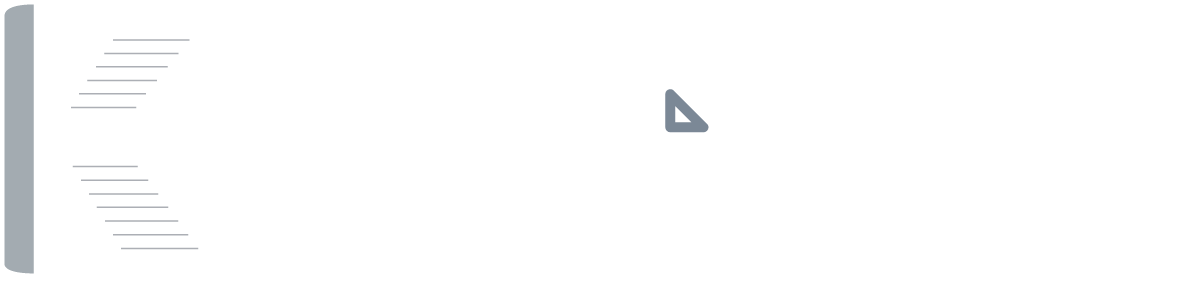
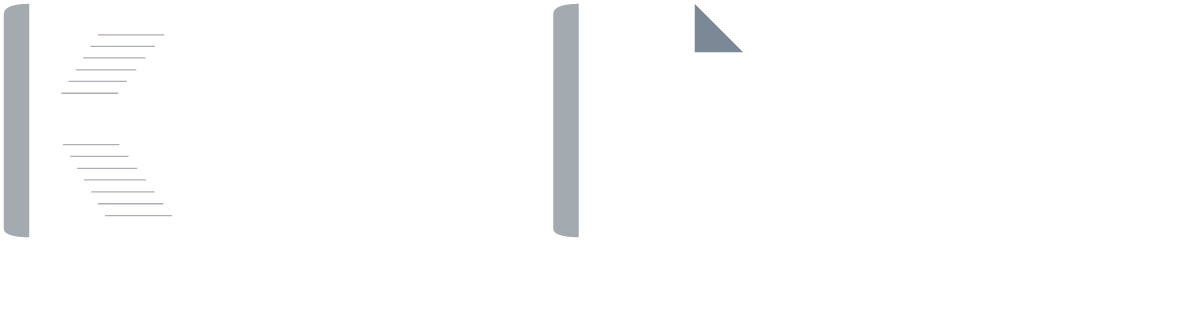
Brand: new KernPage wordmark with a capital P built from the K; add docs/BRAND-USAGE.md

diff --git a/brand/make_brand.py b/brand/make_brand.py
@@ -24,7 +24,7 @@ TEAL = {
     "dark": "#046064",         # icon tile
     "light": "#7FC9C4",        # stem strip
     "ink": "#0B5A73",          # wordmark letters and K body on light backgrounds
-    "accent": "#1696A0",       # the p's fold on light backgrounds
+    "accent": "#1696A0",       # the P's fold on light backgrounds
     "line": "#6FB6C6",         # text lines on the arms, light backgrounds
     "accent_on_dark": "#36C4CF",
     "line_on_dark": "#8FB9C6",
@@ -85,13 +85,39 @@ def v(name, fallback):
     return "var(--kp-%s, %s)" % (name, fallback)
 
 
+# ---- the approved wordmark artwork (KernPage, capital P built from the K) -------------------------------
+WORDMARK_VIEWBOX = "103 211 1249.19 329.50"
+WORDMARK_BODY = r'''<g transform="translate(107,215) scale(0.26586) translate(-341,-245)">
+<path fill="var(--kp-light, #7FC9C4)" d="M341,285C341,252 395,245 440.8,245V1159C395,1159 341,1152 341,1126Z"/>
+<path fill="var(--kp-ink, #0B5A73)" d="M449.8,245C495,245 524.5,250 524.5,278V502L449.8,687Z"/>
+<path fill="var(--kp-ink, #0B5A73)" d="M449.8,697L524.5,909V1126C524.5,1154 495,1159 449.8,1159Z"/>
+<path fill="var(--kp-ink, #0B5A73)" d="M704,266H1121L775,687H445.3Z"/>
+<path fill="var(--kp-ink, #0B5A73)" d="M445.3,697H775L1121,1135H704Z"/>
+<path fill="none" stroke="var(--kp-line, #6FB6C6)" stroke-width="5" d="M710.0,366.1H969.4M680.3,411.4H932.7M652.0,456.6H895.9M622.4,503.3H859.2M594.1,548.5H822.4M567.2,595.1H788.5M572.9,795.9H794.1M601.1,842.5H829.5M628.0,889.2H863.4M654.9,934.4H897.3M683.1,981.1H931.3M710.0,1027.7H965.2M736.9,1074.4H999.1"/>
+</g>
+<g transform="translate(54,40.00)"><path fill="var(--kp-ink, #0B5A73)" d="M396.36 362.86H301.32Q302.49 376.94 311.18 384.91Q319.86 392.89 332.53 392.89Q350.83 392.89 358.58 377.17H394.01Q388.38 395.94 372.42 408.03Q356.47 420.11 333.23 420.11Q314.46 420.11 299.56 411.78Q284.66 403.45 276.33 388.2Q268 372.95 268 353Q268 332.82 276.21 317.57Q284.43 302.31 299.21 294.1Q313.99 285.89 333.23 285.89Q351.77 285.89 366.44 293.87Q381.1 301.84 389.2 316.51Q397.3 331.18 397.3 350.18Q397.3 357.22 396.36 362.86ZM363.27 340.8Q363.04 328.13 354.12 320.5Q345.2 312.87 332.3 312.87Q320.09 312.87 311.76 320.27Q303.43 327.66 301.56 340.8Z"/>
+<path fill="var(--kp-ink, #0B5A73)" d="M477.04 286.12V320.62H468.36Q452.87 320.62 445.01 327.89Q437.15 335.17 437.15 353.23V418H404.3V288H437.15V308.18Q443.48 297.86 453.69 291.99Q463.9 286.12 477.04 286.12Z"/>
+<path fill="var(--kp-ink, #0B5A73)" d="M607.94 341.74V418H575.09V346.19Q575.09 330.71 567.34 322.38Q559.6 314.05 546.22 314.05Q532.61 314.05 524.75 322.38Q516.89 330.71 516.89 346.19V418H484.04V288H516.89V304.19Q523.46 295.74 533.67 290.93Q543.88 286.12 556.08 286.12Q579.31 286.12 593.62 300.79Q607.94 315.45 607.94 341.74Z"/>
+</g><g transform="translate(678.94,215) scale(0.26586) translate(-341,-245)"><path fill="var(--kp-light, #7FC9C4)" d="M341,285C341,252 395,245 440.8,245V1159C395,1159 341,1152 341,1126Z"/><path fill="var(--kp-ink, #0B5A73)" fill-rule="evenodd" d="M449.8,245H895L1085,435V560A230,230 0 0 1 855,790H524.5V1126C524.5,1154 495,1159 449.8,1159Z M524.5,410H826.7L920,503.3V560A65,65 0 0 1 855,625H524.5Z"/><path fill="var(--kp-accent, #1696A0)" d="M895,245V435H1085Z"/></g><g transform="translate(107.30,40.00)"><path fill="var(--kp-ink, #0B5A73)" d="M763.44 353Q763.44 333.05 772.24 317.8Q781.04 302.55 796.29 294.22Q811.54 285.89 830.32 285.89Q849.09 285.89 864.34 294.22Q879.59 302.55 888.39 317.8Q897.19 333.05 897.19 353Q897.19 372.95 888.16 388.2Q879.12 403.45 863.75 411.78Q848.38 420.11 829.38 420.11Q810.6 420.11 795.59 411.78Q780.57 403.45 772 388.2Q763.44 372.95 763.44 353ZM863.4 353Q863.4 334.46 853.66 324.49Q843.93 314.52 829.85 314.52Q815.77 314.52 806.26 324.49Q796.76 334.46 796.76 353Q796.76 371.54 806.03 381.51Q815.3 391.48 829.38 391.48Q838.29 391.48 846.16 387.14Q854.02 382.8 858.71 374.12Q863.4 365.44 863.4 353Z"/>
+<path fill="var(--kp-ink, #0B5A73)" d="M864.34,288H897.19V418H864.34Z"/>
+<path fill="var(--kp-ink, #0B5A73)" d="M1006.5 306.54V288H1039.59V418.94Q1039.59 437.01 1032.32 451.2Q1025.04 465.4 1010.49 473.73Q995.94 482.06 975.29 482.06Q947.6 482.06 929.89 469.16Q912.17 456.25 909.82 433.96H942.44Q945.02 442.87 953.59 448.15Q962.15 453.43 974.36 453.43Q988.67 453.43 997.59 444.87Q1006.5 436.3 1006.5 418.94V398.76Q1000.17 407.91 989.02 414.01Q977.88 420.11 963.56 420.11Q947.14 420.11 933.53 411.66Q919.92 403.22 912.05 387.85Q904.19 372.48 904.19 352.53Q904.19 332.82 912.05 317.57Q919.92 302.31 933.41 294.1Q946.9 285.89 963.56 285.89Q978.11 285.89 989.14 291.64Q1000.17 297.39 1006.5 306.54ZM972.01 314.75Q962.86 314.75 955.11 319.21Q947.37 323.67 942.56 332.23Q937.75 340.8 937.75 352.53Q937.75 364.26 942.56 373.06Q947.37 381.86 955.23 386.56Q963.09 391.25 972.01 391.25Q981.16 391.25 989.14 386.67Q997.12 382.1 1001.81 373.53Q1006.5 364.97 1006.5 353Q1006.5 341.03 1001.81 332.47Q997.12 323.9 989.14 319.33Q981.16 314.75 972.01 314.75Z"/>
+<path fill="var(--kp-ink, #0B5A73)" d="M1174.95 362.86H1079.91Q1081.08 376.94 1089.77 384.91Q1098.45 392.89 1111.12 392.89Q1129.42 392.89 1137.17 377.17H1172.6Q1166.97 395.94 1151.01 408.03Q1135.06 420.11 1111.82 420.11Q1093.05 420.11 1078.15 411.78Q1063.25 403.45 1054.92 388.2Q1046.59 372.95 1046.59 353Q1046.59 332.82 1054.8 317.57Q1063.02 302.31 1077.8 294.1Q1092.58 285.89 1111.82 285.89Q1130.36 285.89 1145.03 293.87Q1159.69 301.84 1167.79 316.51Q1175.89 331.18 1175.89 350.18Q1175.89 357.22 1174.95 362.86ZM1141.86 340.8Q1141.63 328.13 1132.71 320.5Q1123.79 312.87 1110.89 312.87Q1098.68 312.87 1090.35 320.27Q1082.02 327.66 1080.15 340.8Z"/>
+</g>'''
+
+
 # ---- recolourable masters ----------------------------------------------------------------------------
+SVG_TMPL = '<svg xmlns="http://www.w3.org/2000/svg" viewBox="%s">\n%s\n%s\n</svg>\n'
+
+
 def master_wordmark():
-    s = read("kernpage-wordmark.svg")
-    for old, var in (("#7FC9C4", "light"), ("#0B5A73", "ink"), ("#1696A0", "accent"), ("#6FB6C6", "line")):
-        s = s.replace('"%s"' % old, '"%s"' % v(var, old))
-    note = "<!-- KernPage wordmark, recolourable: set the CSS variables kp-ink, kp-light, kp-accent, kp-line (with a double-hyphen prefix) on the inlined svg or a parent. All glyphs are paths. Letters outlined from Poppins (OFL). -->"
-    return re.sub(r"<!--.*?-->", note, s, count=1)
+    note = "<!-- KernPage wordmark, recolourable: set the CSS variables kp-ink, kp-light, kp-accent, kp-line (with a double-hyphen prefix) on the inlined svg or a parent. All glyphs are paths. Letters outlined from Poppins (OFL); the capital P is built from the K's parts, its top-right corner a folded page corner. -->"
+    return SVG_TMPL % (WORDMARK_VIEWBOX, note, WORDMARK_BODY)
+
+
+def approved_wordmark(p, mode):
+    """The static wordmark kept in packaging/windows/icon/ (kernpage-wordmark.svg, kernpage-wordmark-white.svg)."""
+    note = "<!-- KernPage wordmark (for %s backgrounds). All glyphs are drawn paths (no font, no text elements). -->" % mode
+    return SVG_TMPL % (WORDMARK_VIEWBOX, note, fill(WORDMARK_BODY, values(p, mode)))
 
 
 def master_k():

diff --git a/crates/kernpage/src/backstage.rs b/crates/kernpage/src/backstage.rs
@@ -601,7 +601,7 @@ impl App {
     }
 
     fn home_page(&mut self, ui: &mut Ui) {
-        crate::logo::show(ui, crate::logo::Mark::Wordmark, 34.0);
+        crate::logo::show(ui, crate::logo::Mark::Wordmark, 40.0);
         ui.add_space(10.0);
         let mut picked = None;
         egui::ScrollArea::vertical().auto_shrink([false, false]).show(ui, |ui| {
@@ -1073,7 +1073,7 @@ fn about_page(ui: &mut Ui) {
     };
     page_title(ui, "About KernPage");
     egui::ScrollArea::vertical().auto_shrink([false, false]).show(ui, |ui| {
-        crate::logo::show(ui, crate::logo::Mark::Wordmark, 34.0);
+        crate::logo::show(ui, crate::logo::Mark::Wordmark, 40.0);
         ui.add_space(6.0);
         ui.label(RichText::new(format!("KernPage {}", crate::app_version())).size(18.0).color(crate::theme::text()));
         ui.add_space(4.0);

diff --git a/crates/kernpage/src/logo.rs b/crates/kernpage/src/logo.rs
@@ -9,7 +9,7 @@ use eframe::egui::{self, Color32, ColorImage, Pos2, Rect, TextureHandle, Texture
 pub enum Mark {
     /// The K alone.
     K,
-    /// The full "Kernpage" wordmark.
+    /// The full "KernPage" wordmark.
     Wordmark,
 }
 
@@ -55,7 +55,7 @@ fn current_accent() -> Accent {
 fn aspect(mark: Mark) -> f32 {
     match mark {
         Mark::K => 780.0 / 914.0,
-        Mark::Wordmark => 1083.886 / 274.0,
+        Mark::Wordmark => 1249.19 / 329.5,
     }
 }
 

diff --git a/docs/BRAND-USAGE.md b/docs/BRAND-USAGE.md
@@ -1,0 +1,50 @@
+# Brand usage checklist
+
+Every place the KernPage **wordmark** (the word "KernPage" with the capital P built from the K) and the **icon** (the K
+mark, the tiled app icon, the `.ico` files, installer art, favicon) is used. When the artwork changes, go down both
+tables and update each row. The artwork itself is described in [brand/README.md](../brand/README.md).
+
+How rows get their artwork:
+
+- **generated**: written by `brand/make_brand.py` (run `C:\Python312\python.exe -I brand/make_brand.py` from the repo root;
+  it needs cargo and the sibling `kernicons` repo for the PNGs).
+- **embedded**: compiled into a program with `include_str!` / `include_bytes!`, so rebuild after changing the file.
+- **by hand**: copied or set manually.
+
+## Wordmark
+
+| Where | Artwork / variant | How it gets there | How to update |
+| --- | --- | --- | --- |
+| `brand/kernpage-wordmark.svg` | Recolourable master (CSS variables) | generated; the geometry lives in `WORDMARK_BODY` in `brand/make_brand.py` | Edit `WORDMARK_BODY` / `WORDMARK_VIEWBOX` in the script, rebuild |
+| `brand/<accent>/kernpage-wordmark-light.svg` / `.png` and `-dark.svg` / `.png` (teal, blue, purple, graphite, orange) | Static files, 1200 px wide PNG | generated | Rebuild with `make_brand.py` |
+| `packaging/windows/icon/kernpage-wordmark.svg`, `kernpage-wordmark-white.svg` | Teal, light and dark approved copies | generated (`approved_wordmark`); the script's self-check compares them with the masters | Rebuild with `make_brand.py` |
+| `README.md` header (lines 3-4) | `brand/teal/kernpage-wordmark-dark.png` and `-light.png`, 420 px wide | by hand (path reference to generated files) | Nothing, unless the file names change; check the width still looks right |
+| `crates/kernpage/src/logo.rs` (`svg()` and `aspect()`) | `brand/<accent>/kernpage-wordmark-{light,dark}.svg`, drawn at the current accent and theme | embedded (`include_str!`) | Rebuild after `make_brand.py`; update the width / height constant in `aspect(Mark::Wordmark)` if the viewBox changes (now 1249.19 / 329.5) |
+| `crates/kernpage/src/backstage.rs`: File > Home page header (`home_page`) and File > About page (`about_page`) | Wordmark, 40 pt tall, current accent and light or dark theme | embedded via `logo::show` | Change the height in the two `logo::show` calls |
+| `crates/kernpage/src/ui_tests/logo.rs` | Tests for the wordmark colours, accent and theme | by hand | Update only if colours or roles change |
+| `brand/README.md`, `packaging/windows/icon/README.md` | Text that describes the wordmark | by hand | Edit the text |
+| Installer welcome art `packaging/windows/assets/dialog.bmp`, `banner.bmp` | The text "KernPage" drawn with a system font by `make_art.py`; not the wordmark artwork | generated by `packaging/windows/assets/make_art.py` | Decide whether to draw the new wordmark instead; if so, change `make_art.py` and rerun it |
+| Docs screenshots in `docs/images/` | App screenshots; the File > Home and About pages would show the wordmark | by hand (screenshots taken from the app, `--screenshot`) | Retake any that show the File > Home or About page |
+| 238apps website repo (238apps-site): KernPage page header / hero, home page app card, og image | Wordmark (light or dark PNG / SVG) | by hand, copied from `brand/<accent>/` | TODO: exact paths |
+| GitHub repository social preview | Wordmark on a card, 1280x640 | by hand: repository Settings > Social preview | Upload a new image |
+
+## Icon (K mark, tiled icon, .ico, installer art, favicon)
+
+| Where | Artwork / variant | How it gets there | How to update |
+| --- | --- | --- | --- |
+| `brand/kernpage-k.svg`, `brand/<accent>/kernpage-k-{light,dark}.svg` / `.png` | The K alone, 512 px PNG | generated | Rebuild with `make_brand.py` |
+| `brand/kernpage-icon.svg`, `brand/<accent>/kernpage-icon.svg` / `.png` | Tiled app icon, 512 px PNG | generated from `packaging/windows/icon/kernpage.svg` | Change the approved file, rebuild with `make_brand.py` |
+| `packaging/windows/icon/kernpage.svg`, `kernpage@16/20/24.svg` | Approved tiled icon and the pixel-hinted small sizes | by hand (the source artwork) | Edit the SVGs, then run `packaging/windows/icon/regenerate.ps1` |
+| `packaging/windows/icon/png/`, `png-hinted/`, `png-master/` | Rendered PNG sizes | generated by `regenerate.ps1` | Run `regenerate.ps1` |
+| `packaging/windows/assets/kernpage.ico` | App icon (16 to 256 px) | generated by `make_ico.py` via `regenerate.ps1` | Run `regenerate.ps1` |
+| `crates/kernpage/build.rs`, `crates/kernpage-launcher/build.rs` | `kernpage.ico` as the `.exe` icon resource (taskbar, Explorer) | embedded at build | Rebuild the exes |
+| `packaging/windows/icon/kernpage-doc*.svg`, `png-doc*/`, `assets/kernpage-doc.ico` | `.kern` file-type icon (white page with a teal K) | generated by `make_doc_svgs.py` and `make_doc_ico.py` (reads `brand/kernpage-k.svg`) via `regenerate.ps1` | Run `regenerate.ps1` |
+| `packaging/windows/kernpage.wxs` | `kernpage.ico` for Add/Remove Programs (`ARPPRODUCTICON`), Start menu and desktop shortcuts, and the installed `kernpage.ico`; `kernpage-doc.ico` as the `.kern` `DefaultIcon` | by hand (paths) / copied at packaging | Nothing, once the `.ico` files are regenerated; rebuild the installer |
+| `packaging/windows/kernpage-bundle.wxs`, `package.ps1` (lines about `logo.png`), `bundle-theme.xml` | Setup.exe window logo: `icon/png-master/64.png` copied to `logo.png`; the bundle `.exe` icon is `kernpage.ico` | copied by `package.ps1` | Rebuild the installer |
+| `packaging/windows/assets/banner.bmp`, `dialog.bmp` | MSI dialog art (493x58 banner, 493x312 dialog) | generated by `make_art.py` | Run `make_art.py`; check it still matches the icon |
+| `crates/kernpage-launcher/src/main.rs` (window and taskbar icon), `crates/kernpage-launcher/src/mark.rs` (mark in the Launcher window) | `icon/png-master/256.png`, `64.png`, `png/32.png` | embedded (`include_bytes!`) | Regenerate the PNGs, rebuild the launcher |
+| `crates/kernpage/src/logo.rs` `Mark::K` | `brand/<accent>/kernpage-k-{light,dark}.svg` | embedded | Rebuild after `make_brand.py` |
+| Start menu and desktop shortcuts | `kernpage.ico` through `KernPageIcon.ico` in `kernpage.wxs` | by the installer | Rebuild the installer |
+| Installer screenshots `docs/images/install/*.png`, used in `INSTALL.md` | Show the icon inside installer windows | by hand (screenshots) | Retake if the icon changes |
+| Favicon / avatar / og image on the 238apps website (238apps-site) | `brand/<accent>/kernpage-icon.png` or K | by hand | TODO: exact paths |
+| GitHub organisation / repository avatar | `brand/teal/kernpage-icon.png` | by hand | Upload in GitHub settings |

diff --git a/brand/README.md b/brand/README.md
@@ -1,7 +1,9 @@
 # KernPage brand kit
 
 The KernPage logo is a **K** whose stem is a rolled spine (a light strip beside a darker or white body) and whose two arms
-are pages with lines of text; the wordmark spells "Kernpage" with a page-shaped **p** that has a folded corner.
+are pages with lines of text; the wordmark spells "KernPage" with a capital **P** built like the K (a light strip beside a dark stem and bowl),
+whose top-right corner is a folded page corner. Every place the logo and icon are used is listed in
+[docs/BRAND-USAGE.md](../docs/BRAND-USAGE.md).
 The approved artwork lives in `packaging/windows/icon/` (the teal app icon, which is also what the Windows `.ico` is made from).
 This folder holds everything derived from it: transparent marks, every accent colour and recolourable masters.
 Do not redraw the shapes; change colours only.
@@ -41,8 +43,8 @@ because that shift gives a yellowish ink with too little contrast on white.
 | dark | icon tile | `#046064` | `#0352B8` | `#451FAF` | `#303A44` | `#B35A00` |
 | light | the stem's light strip | `#7FC9C4` | `#B8CFE3` | `#CFCBE3` | `#A3ABB1` | `#FFC285` |
 | ink | wordmark letters and K body on light backgrounds | `#0B5A73` | `#0E39C3` | `#6D2ABA` | `#3A4150` | `#A34700` |
-| accent | the p's fold, on light backgrounds | `#1696A0` | `#2372E6` | `#744DCF` | `#53606F` | `#FF8200` |
-| accent on dark | the p's fold, on dark backgrounds | `#36C4CF` | `#77A2E1` | `#A893D8` | `#7B8896` | `#FF9F3D` |
+| accent | the P's fold, on light backgrounds | `#1696A0` | `#2372E6` | `#744DCF` | `#53606F` | `#FF8200` |
+| accent on dark | the P's fold, on dark backgrounds | `#36C4CF` | `#77A2E1` | `#A893D8` | `#7B8896` | `#FF9F3D` |
 | line | text lines on the K's arms, light backgrounds | `#6FB6C6` | `#A9B9DF` | `#CBBDDE` | `#999EA8` | `#F0C08E` |
 | line on dark | text lines, dark backgrounds | `#8FB9C6` | `#C5CCE3` | `#DDD5E6` | `#ACAFB5` | `#E8C9A8` |
 | paper | white of the arms / letters on dark | `#FFFFFF` | `#FFFFFF` | `#FFFFFF` | `#FFFFFF` | `#FFFFFF` |

diff --git a/packaging/windows/icon/README.md b/packaging/windows/icon/README.md
@@ -7,8 +7,8 @@ grey text lines, meeting at the middle with a thin teal gap.
 - `kernpage.svg` - master (1408 grid), used for 32 px and up.
 - `kernpage@16.svg`, `@20`, `@24` - pixel-hinted versions (every edge on a whole pixel, stepped tile corners, no shadows, no text lines)
   for the smallest sizes: a two-tone stem and two solid arms.
-- `kernpage-wordmark.svg` - the word "Kernpage" in dark teal (#0B5A73) for light backgrounds; `kernpage-wordmark-white.svg` is the
-  version for dark backgrounds. The K is the icon's K recoloured; the "p" bowl is a page outline with a folded corner in the accent
+- `kernpage-wordmark.svg` - the word "KernPage" (capital P built from the K's parts) in dark teal (#0B5A73) for light backgrounds; `kernpage-wordmark-white.svg` is the
+  version for dark backgrounds. The K is the icon's K recoloured; the "P" repeats the K's light strip beside a dark stem and bowl, and its top-right corner is folded over in the accent
   teal (#1696A0). Every glyph is a path (no font reference and no text elements).
   Wordmark letters outlined from Poppins (SIL Open Font License 1.1, Indian Type Foundry).
 - `png-master/`, `png-hinted/`, `png/` - rendered outputs; `png/` holds the sizes packed into `../assets/kernpage.ico`
